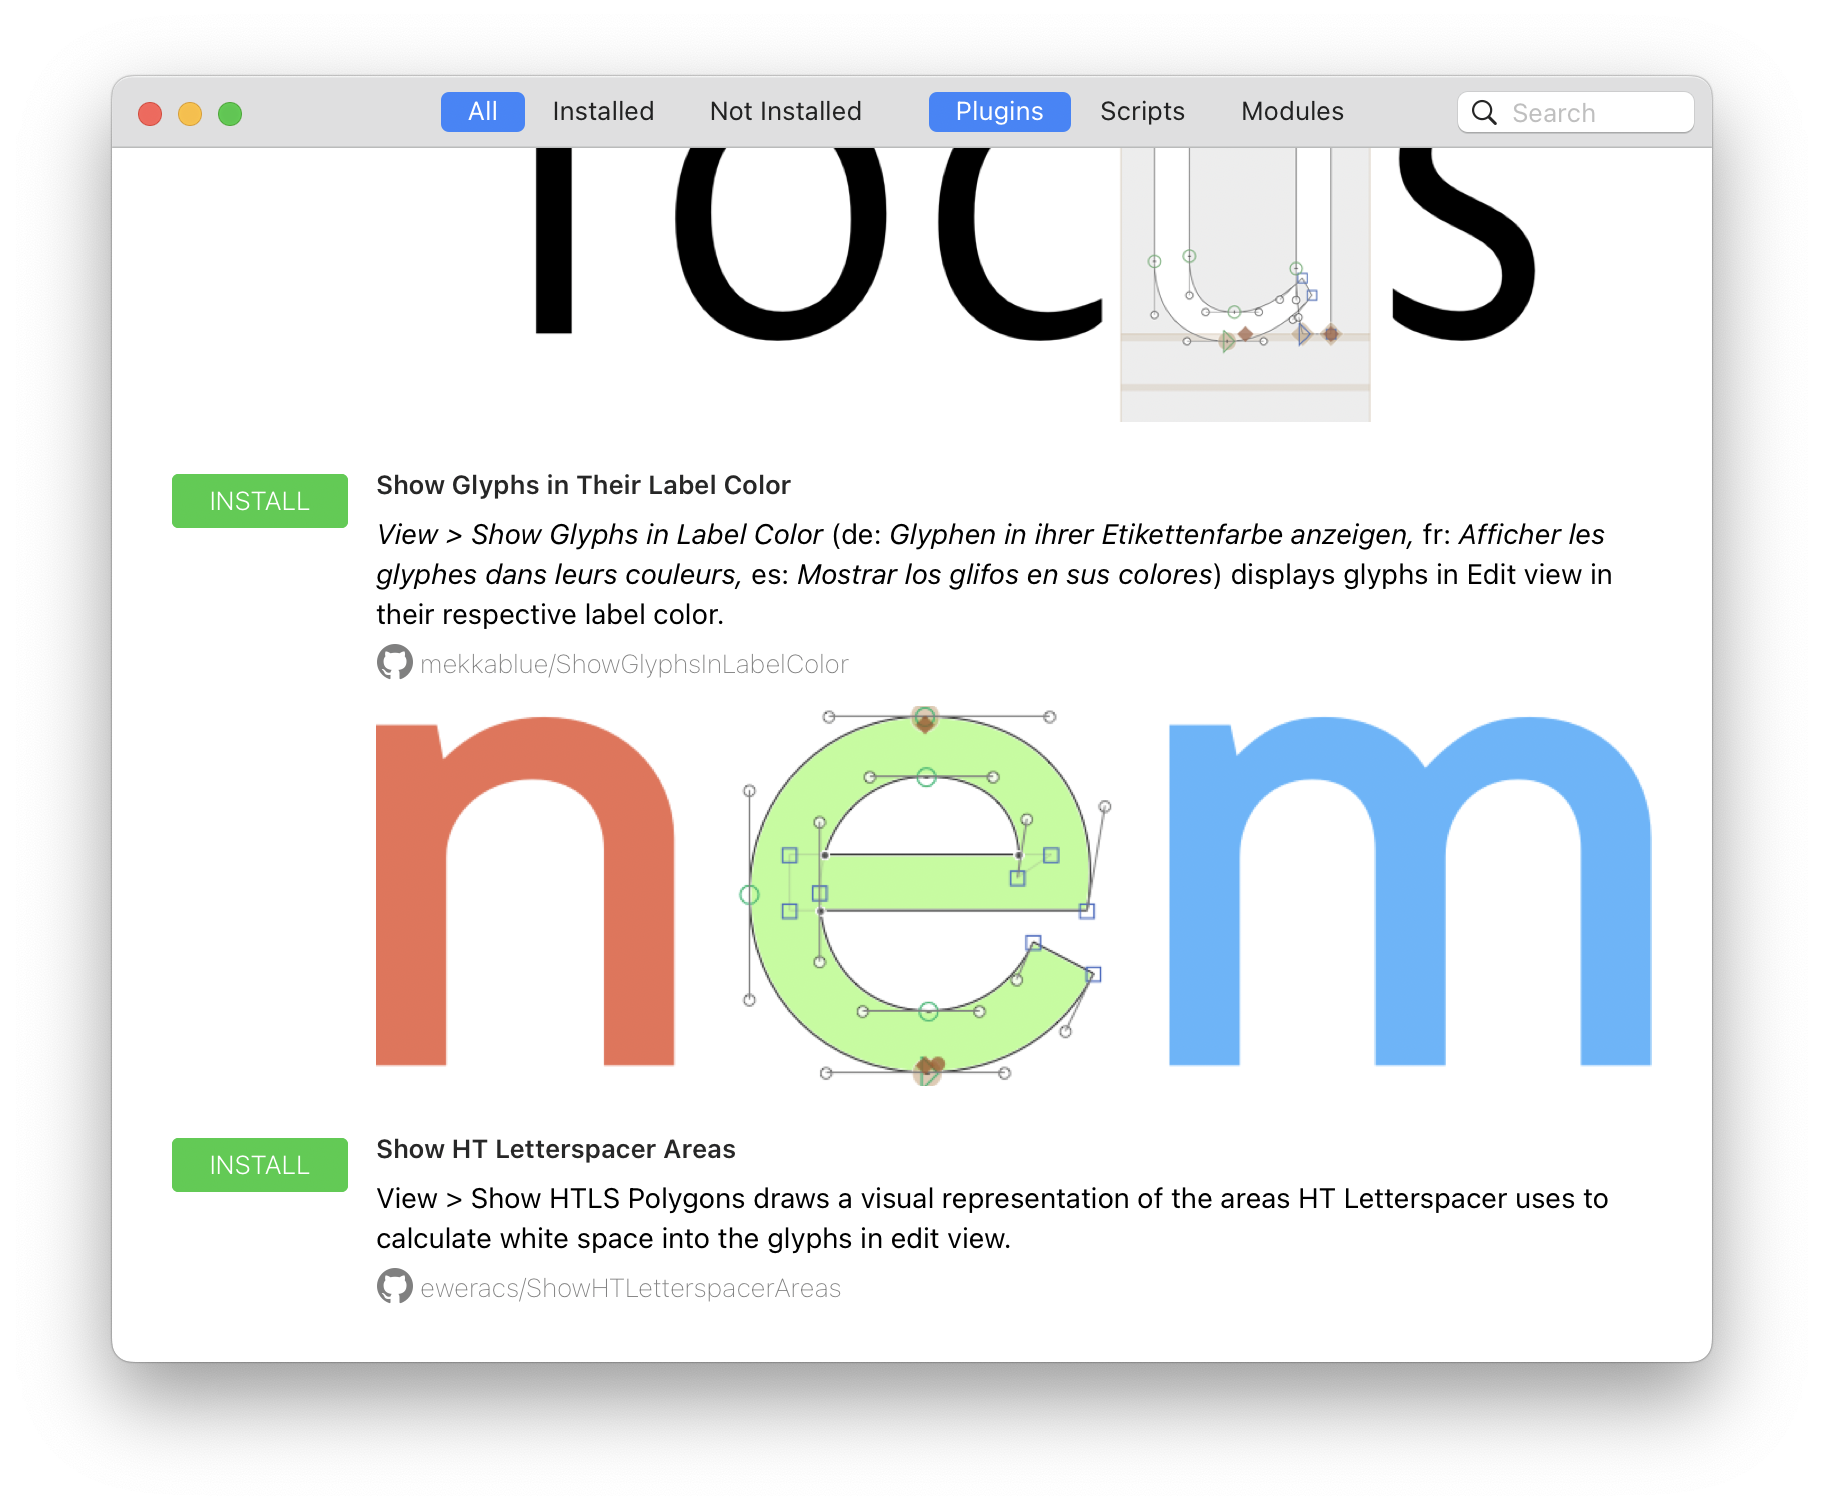
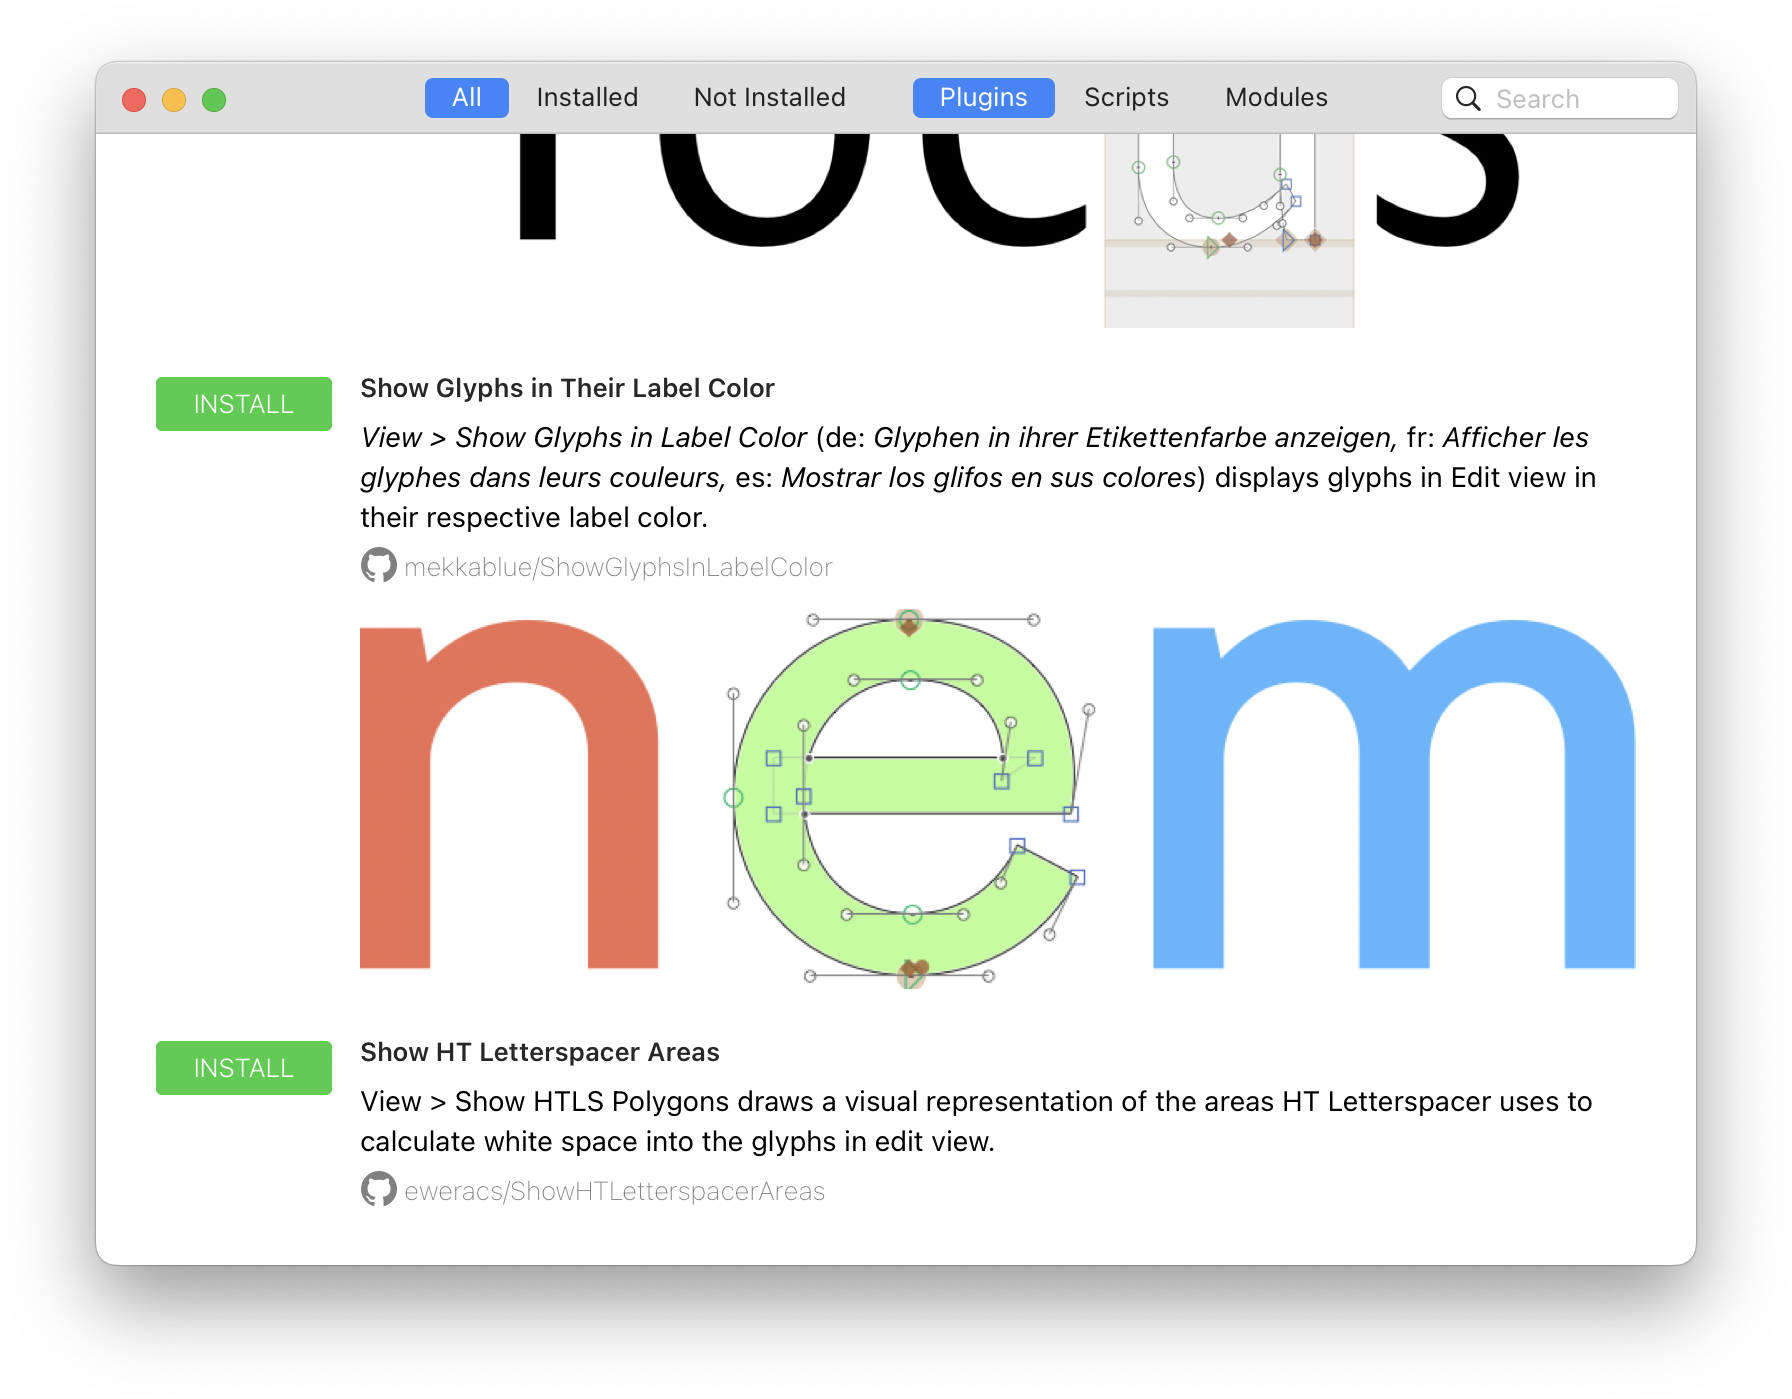
Smaller screenshot

diff --git a/README.md b/README.md
@@ -4,7 +4,7 @@ Welcome to the Glyphs packages repository!
 This repository contains the index of plug-ins and scrips for the Plugin Manager.
 In Glyphs, open the Plugin Manager with *Window > Plugin Manager*.
 
-<img width="912" alt="Screenshot of the Plugin Manager window" src="images/Screenshot.png">
+<img width="896" alt="Screenshot of the Plugin Manager window" src="images/Screenshot.png">
 
 See the Glyphs Handbook for details on the [Plugin Manager](https://handbook.glyphsapp.com/plugin-manager/) and learn more about extensions in the [“Extending Glyphs” tutorial](https://glyphsapp.com/learn/extending-glyphs) ([Español](https://glyphsapp.com/es/learn/extending-glyphs), [Français](https://glyphsapp.com/fr/learn/extending-glyphs), [中文](https://glyphsapp.com/zh/learn/extending-glyphs)).
 
